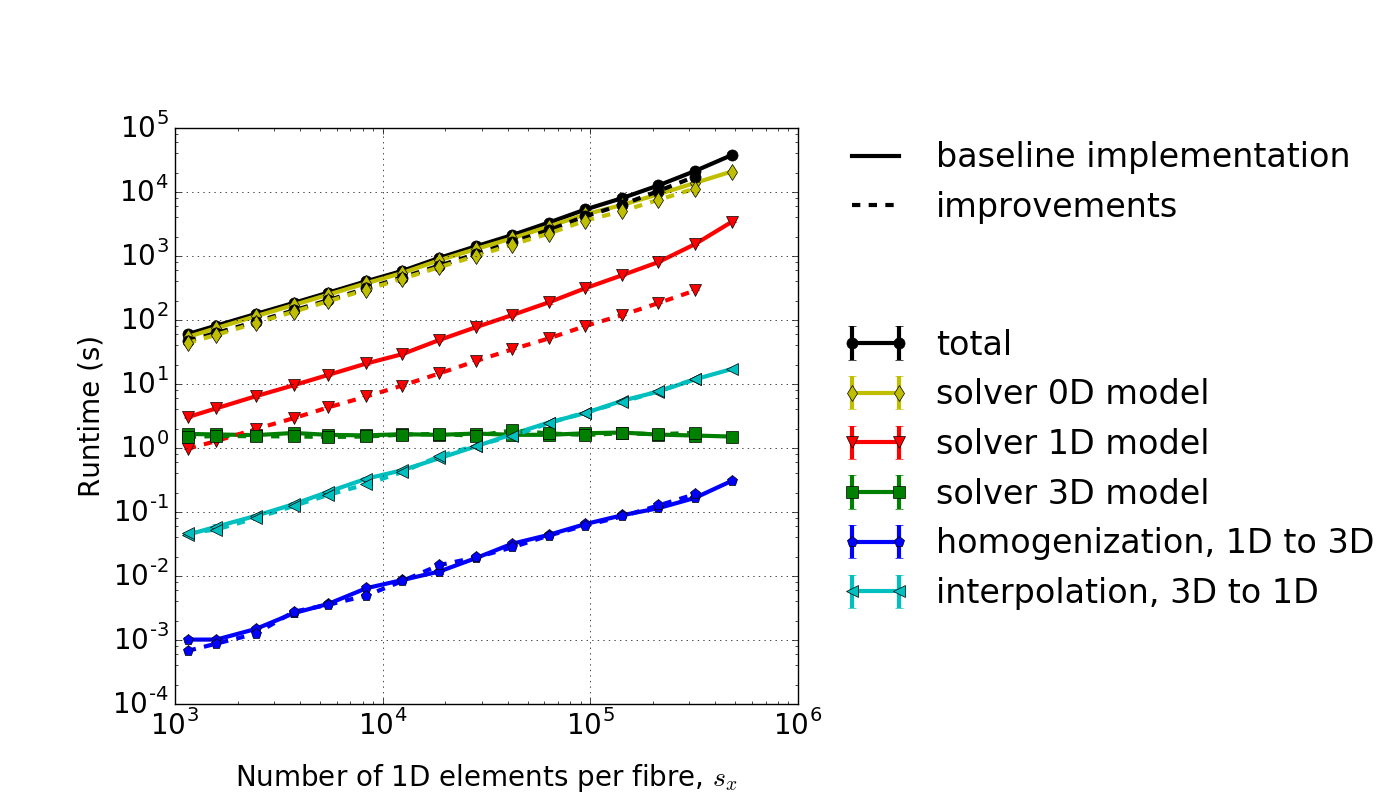
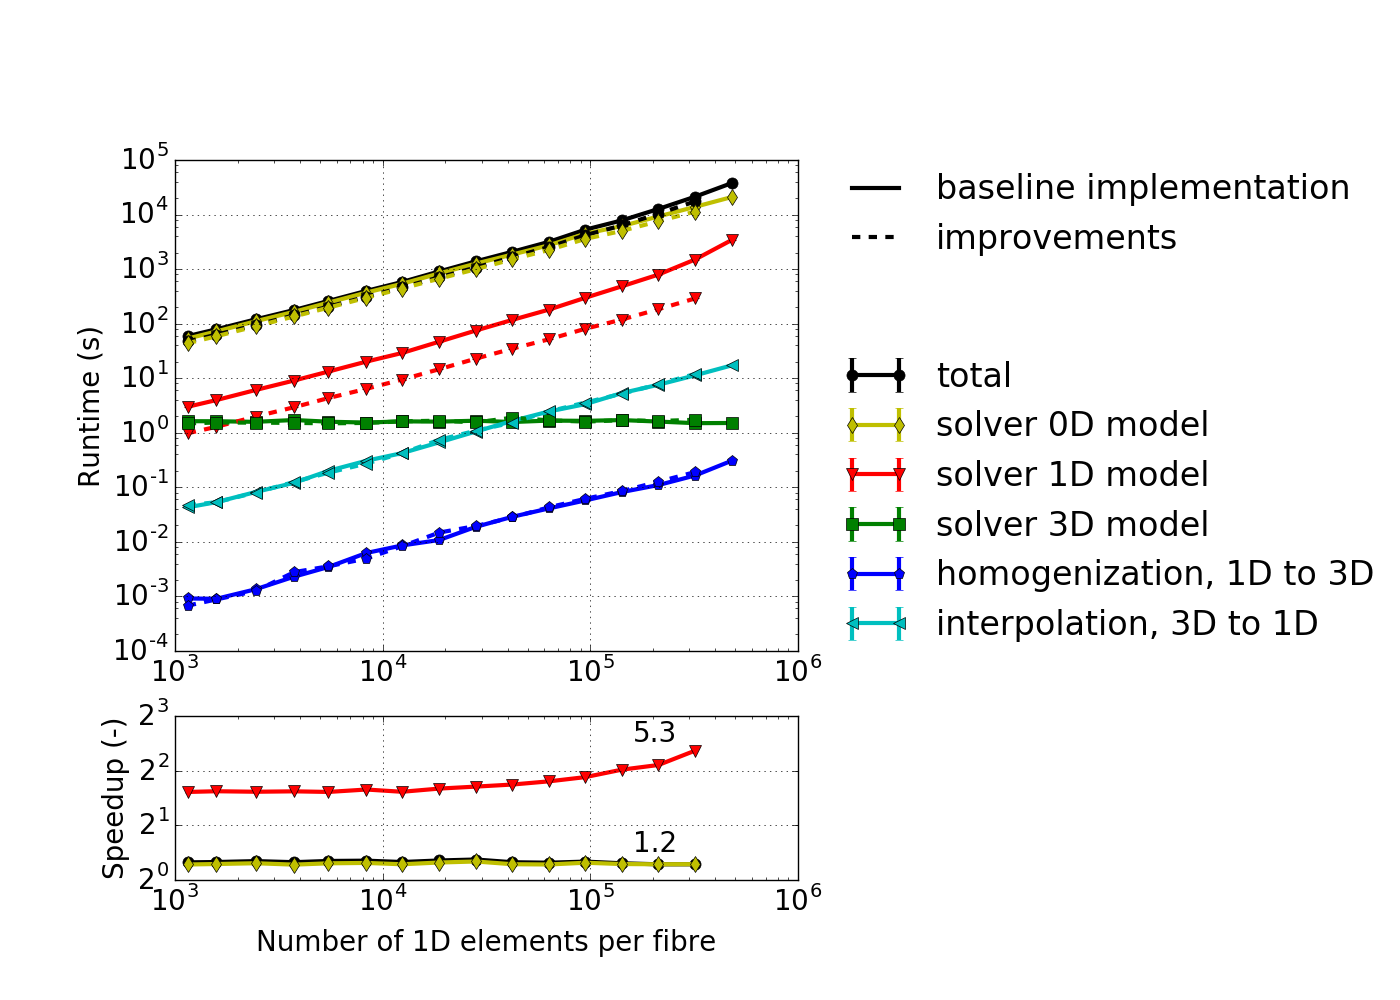
Add plot paper script

diff --git a/paper_serial_scaling_improvements/plot_paper.py b/paper_serial_scaling_improvements/plot_paper.py
@@ -3,6 +3,7 @@
 import sys
 import numpy as np
 import matplotlib.pyplot as plt
+from matplotlib import gridspec
 import csv
 import collections
 import copy
@@ -311,6 +312,11 @@ plt.rcParams['lines.markersize'] = 8
 output_path = ""
 
 colors = {
+
+  15: "ko-",      # total
+  36: "yd-",      # 0D
+  37: "rv-",      # 1D
+  
   "baseline15": "ko-",      # total
   "baseline36": "yd-",      # 0D
   "baseline37": "rv-",      # 1D
@@ -347,15 +353,16 @@ caption = "Serial scaling, neon,\n x,y,z=(2,2,2), xi=(xi1,3,3) "
 output_path = ""
 outfile = output_path+SCENARIO+'_serial_scaling_comparison.png'
 if paper_no_legend:
-  plt.figure("serial scaling std (12)", figsize=(8,8))
+  plt.figure("serial scaling std (12)", figsize=(8,10))
 else:
-  plt.figure("serial scaling std (12)", figsize=(14,8))
+  plt.figure("serial scaling std (12)", figsize=(14,10))
 
 output_path = ""
 plotdata = collections.OrderedDict()
 xdata = Set()
 xtickslist = []
 plotkeys = Set()
+plotkeys_speedup = Set()
 
 # key is the initially defined sorting key
 for key in datasets:
@@ -378,7 +385,7 @@ for key in datasets:
       plotkey = "improvements"+str(plotkey_number)
     
     # define x value and y value
-    xvalue = nM*2
+    xvalue = nM
     yvalue = dataset[plotkey_number]
     yvalue_variance = variances[plotkey_number]
       
@@ -395,10 +402,49 @@ for key in datasets:
     xdata.add(xvalue)
     plotkeys.add(plotkey)
 
+  
+  if "baseline" in key:
+    other_key = "improvements"+key[8:]
+      
+    dataset_baseline = datasets[key]['value']
+    if other_key not in datasets:
+      continue
+    dataset_improvements = datasets[other_key]['value']
+    nproc = dataset_baseline[2]
+    
+    nFE = dataset_baseline[7]
+    nM = dataset_baseline[8]
+    
+    nMperFE = float(nM)/nFE
+      
+    # loop over different curves (e.g. different measurements)
+    for plotkey_number in [15, 36, 37]:
+      
+      plotkey = plotkey_number
+      
+      # define x value and y value
+      xvalue = nM
+      yvalue = dataset_baseline[plotkey_number] / dataset_improvements[plotkey_number]
+        
+      print key," ",descriptions[plotkey_number],", xvalue: ", xvalue,", speedup: ",yvalue
+        
+      if plotkey not in plotdata:
+        plotdata[plotkey] = dict()
+        plotdata[plotkey]['value'] = collections.OrderedDict()
+        plotdata[plotkey]['variance'] = collections.OrderedDict()
+        
+      plotdata[plotkey]['value'][xvalue] = yvalue
+      plotdata[plotkey]['variance'][xvalue] = 0
+      xdata.add(xvalue)
+      plotkeys_speedup.add(plotkey)
 
 # loop over curves and plot data with given label and color
 plotkeys = sorted(plotkeys)
-#print "plotkeys: ",plotkeys
+plotkeys_speedup = sorted(plotkeys_speedup)
+
+
+gs = gridspec.GridSpec(2,1,height_ratios=[3,1])
+plt.subplot(gs[0])
 for plotkey in plotkeys:
     
   xlist = sorted(plotdata[plotkey]["value"])
@@ -411,7 +457,7 @@ for plotkey in plotkeys:
   color = ""
   if plotkey in colors:
     color = colors[plotkey]
-  plt.errorbar(xlist, ylist, fmt=color, yerr=yerr, label=label)
+  plt.errorbar([2*x for x in xlist], ylist, fmt=color, yerr=yerr, label=label)
   
 plt.plot([], [], 'k-', label="baseline implementation")
 plt.plot([], [], 'k--', label="improvements")
@@ -426,19 +472,59 @@ ax.set_yscale('log', basey=10)
 #ax.set_xticks(ticks)
 #ax.set_xticklabels([int(i/1000.) for i in ticks])
 
+
 if paper_no_legend:
   plt.subplots_adjust(bottom=0.12)
 else:
   plt.subplots_adjust(right=0.57, top=0.84, bottom=0.12)
   plt.legend(bbox_to_anchor=(1.05, 1), loc=2, borderaxespad=0., frameon=False)
 
-#ax.set_xticks(np.linspace(000,60000,5))
-
-plt.xlabel('Number of 1D elements per fibre, $s_x$')
-ax.xaxis.set_label_coords(0.5, -0.1)
 plt.ylabel('Runtime (s)')
 #plt.legend(loc='best')
 plt.grid(which='major')
+
+plt.subplot(gs[1])
+for plotkey in plotkeys_speedup:
+    
+  xlist = sorted(plotdata[plotkey]["value"])
+  ylist = [item[1] for item in sorted(plotdata[plotkey]["value"].items())]
+  yerr = [item[1] for item in sorted(plotdata[plotkey]["variance"].items())]
+
+  label = None
+  if plotkey in labels:
+    label = labels[plotkey]
+  color = ""
+  if plotkey in colors:
+    color = colors[plotkey]
+  plt.plot([2*x for x in xlist], ylist, color, label=label)
+  
+ax = plt.gca()
+ax.set_xscale('log', basey=10) 
+ax.set_yscale('log', basey=2) 
+
+#ax.set_xlim([1e3, 3e5])
+#ax.set_xscale('log', basey=2) 
+#ticks = list(np.linspace(10**4, 10**5, 10)) + list(np.linspace(10**5, 10**6, 10))
+#ax.set_xticks(ticks)
+#ax.set_xticklabels([int(i/1000.) for i in ticks])
+
+
+#ax.set_xticks(np.linspace(000,60000,5))
+
+plt.xlabel('Number of 1D elements per fibre')
+ax.xaxis.set_label_coords(0.5, -0.3)
+plt.ylabel('Speedup (-)')
+#plt.legend(loc='best')
+plt.grid(which='major')
+
+y_offset1 = 0.2
+y_offset2 = 0.5
+x_offset = 200
+plt.annotate(s="3.1", xy=(576, 3.10330480237), xytext=(576-x_offset, 3.10330480237+y_offset2))
+plt.annotate(s="5.3", xy=(159624, 5.29661820054), xytext=(159624, 5.29661820054+y_offset2))
+
+plt.annotate(s="1.2", xy=(576, 1.24104304423), xytext=(576-x_offset, 1.24104304423+y_offset1))
+plt.annotate(s="1.2", xy=(159624, 1.22459647275), xytext=(159624, 1.22459647275+y_offset1))
 
 if not paper_version:
   plt.title(caption, y=1.1)
